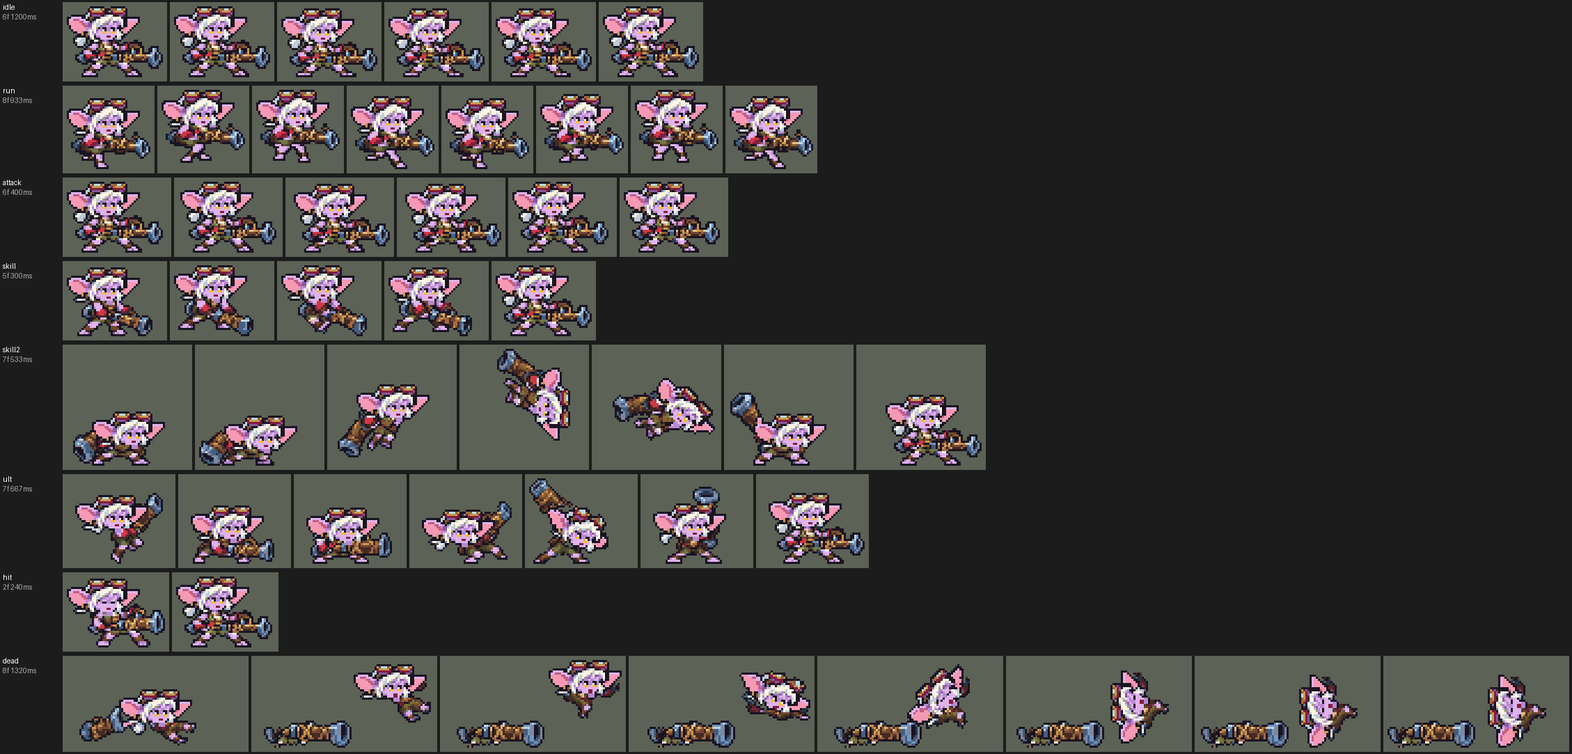
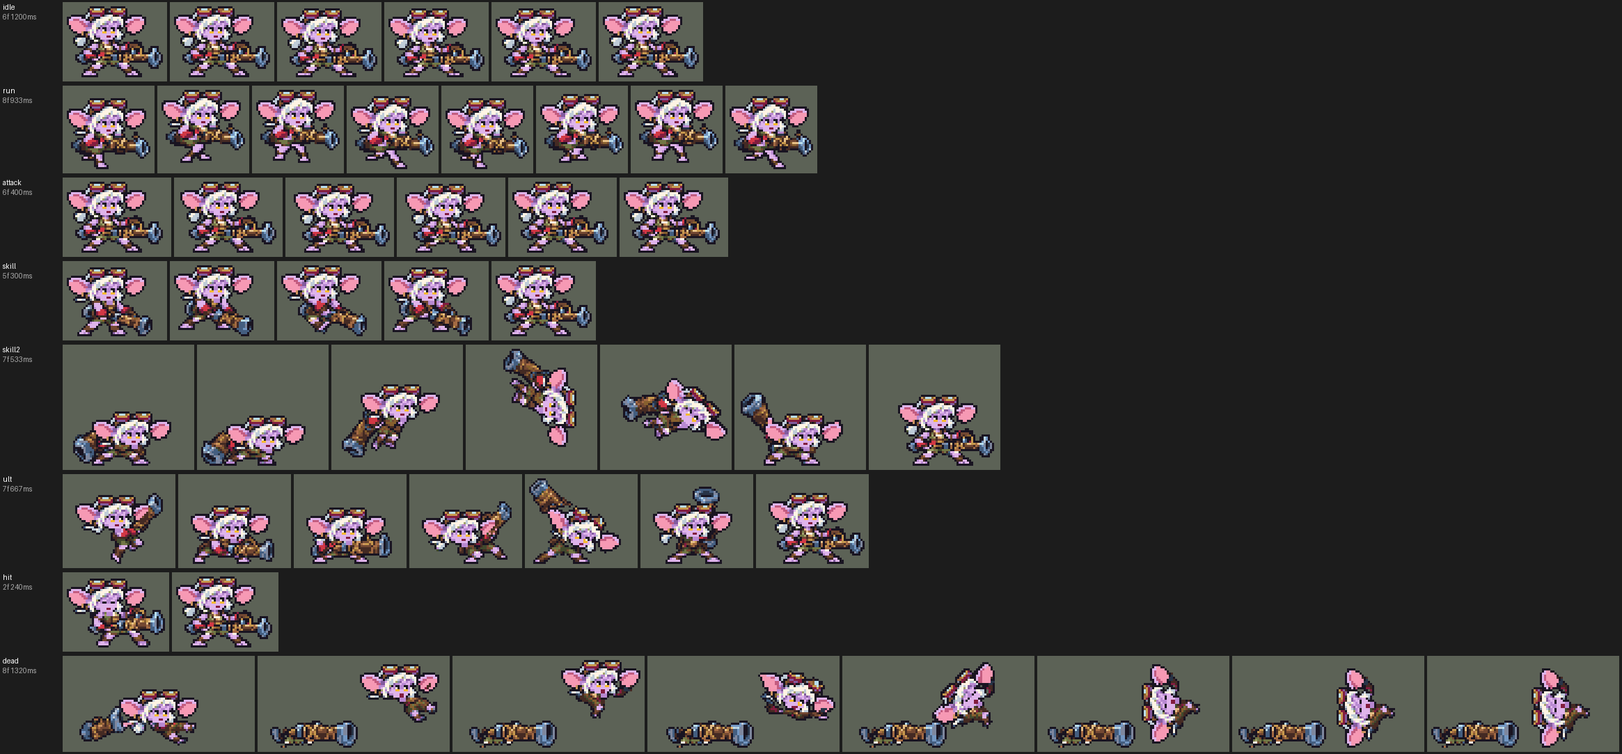
README: LeBlanc (#43) - the hero list, group 9, her showcase and section, her card -8; Tristana's ears
Tristana's previews re-rendered with both ears the left one (the showcase link bumped).

diff --git a/README.md b/README.md
@@ -2,7 +2,7 @@
 
 团战经理2（Teamfight Manager 2）的英雄联盟英雄 Mod，mod_id 是 `league`。纯数据 mod：不改游戏本体，不需要编译。
 
-英雄：盖伦（`league_garen`）、艾希（`league_ashe`）、拉克丝（`league_lux`）、李青（`league_leesin`）、索拉卡（`league_soraka`）、德莱厄斯（`league_darius`）、阿木木（`league_amumu`）、亚索（`league_yasuo`）、金克丝（`league_jinx`）、蕾欧娜（`league_leona`）、提莫（`league_teemo`）、易（`league_masteryi`）、安妮（`league_annie`）、厄运小姐（`league_missfortune`）、迦娜（`league_janna`）、墨菲特（`league_malphite`）、艾克（`league_ekko`）、永恩（`league_yone`）、伊泽瑞尔（`league_ezreal`）、锤石（`league_thresh`）、凯尔（`league_kayle`）、费德提克（`league_fiddlesticks`）、阿狸（`league_ahri`）、卢锡安（`league_lucian`）、莫甘娜（`league_morgana`）、锐雯（`league_riven`）、贝蕾亚（`league_briar`）、阿卡丽（`league_akali`）、薇恩（`league_vayne`）、娜美（`league_nami`）、贾克斯（`league_jax`）、黛安娜（`league_diana`）、维迦（`league_veigar`）、塔里克（`league_taric`）、崔丝塔娜（`league_tristana`）、菲奥娜（`league_fiora`）、菲兹（`league_fizz`）、萨科（`league_shaco`）、凯特琳（`league_caitlyn`）、魔腾（`league_nocturne`）、布里茨（`league_blitzcrank`）。每组上单、打野、中单、ADC、辅助各一：第一组盖伦、李青、拉克丝、艾希、索拉卡，第二组德莱厄斯、阿木木、亚索、金克丝、蕾欧娜，第三组提莫、易（无极剑圣）、安妮、厄运小姐、迦娜，第四组墨菲特、艾克、永恩、伊泽瑞尔、锤石，第五组有上单凯尔、打野费德提克、中单阿狸、ADC 卢锡安、辅助莫甘娜，第六组有上单锐雯、打野贝蕾亚、中单阿卡丽、ADC 薇恩、辅助娜美，第七组有上单贾克斯、中单维迦、ADC 崔丝塔娜、辅助塔里克，第八组有上单菲奥娜（剑姬，排在原定凯南的位置，凯南延后）、中单菲兹、ADC 凯特琳、辅助布里茨。按用户 10 月 2 日排的顺序，打野黛安娜是第七组的，萨科是第八组的，魔腾是第九组的（同组有青钢影、乐芙兰、卡莎、娑娜），魔腾提前做了。
+英雄：盖伦（`league_garen`）、艾希（`league_ashe`）、拉克丝（`league_lux`）、李青（`league_leesin`）、索拉卡（`league_soraka`）、德莱厄斯（`league_darius`）、阿木木（`league_amumu`）、亚索（`league_yasuo`）、金克丝（`league_jinx`）、蕾欧娜（`league_leona`）、提莫（`league_teemo`）、易（`league_masteryi`）、安妮（`league_annie`）、厄运小姐（`league_missfortune`）、迦娜（`league_janna`）、墨菲特（`league_malphite`）、艾克（`league_ekko`）、永恩（`league_yone`）、伊泽瑞尔（`league_ezreal`）、锤石（`league_thresh`）、凯尔（`league_kayle`）、费德提克（`league_fiddlesticks`）、阿狸（`league_ahri`）、卢锡安（`league_lucian`）、莫甘娜（`league_morgana`）、锐雯（`league_riven`）、贝蕾亚（`league_briar`）、阿卡丽（`league_akali`）、薇恩（`league_vayne`）、娜美（`league_nami`）、贾克斯（`league_jax`）、黛安娜（`league_diana`）、维迦（`league_veigar`）、塔里克（`league_taric`）、崔丝塔娜（`league_tristana`）、菲奥娜（`league_fiora`）、菲兹（`league_fizz`）、萨科（`league_shaco`）、凯特琳（`league_caitlyn`）、魔腾（`league_nocturne`）、布里茨（`league_blitzcrank`）、乐芙兰（`league_leblanc`）。每组上单、打野、中单、ADC、辅助各一：第一组盖伦、李青、拉克丝、艾希、索拉卡，第二组德莱厄斯、阿木木、亚索、金克丝、蕾欧娜，第三组提莫、易（无极剑圣）、安妮、厄运小姐、迦娜，第四组墨菲特、艾克、永恩、伊泽瑞尔、锤石，第五组有上单凯尔、打野费德提克、中单阿狸、ADC 卢锡安、辅助莫甘娜，第六组有上单锐雯、打野贝蕾亚、中单阿卡丽、ADC 薇恩、辅助娜美，第七组有上单贾克斯、中单维迦、ADC 崔丝塔娜、辅助塔里克，第八组有上单菲奥娜（剑姬，排在原定凯南的位置，凯南延后）、中单菲兹、ADC 凯特琳、辅助布里茨。按用户 10 月 2 日排的顺序，打野黛安娜是第七组的，萨科是第八组的，魔腾和乐芙兰是第九组的（同组还有青钢影、卡莎、娑娜），这两个先做了。
 
 对敌人放的小技能，施放目标是「敌人（不含防御塔）」，清线、打野时也会放；只有大招、德莱厄斯的 E（拉人）、阿木木的 Q（绷带）、锤石的 Q（钩子）、阿狸的 E（魅惑）、薇恩的 E（恶魔审判）、维迦的 E（扭曲空间）和凯特琳的 W（约德尔诱捕器）只对英雄放（莫甘娜的 Q 对什么都放，但射程内有敌方英雄时朝英雄射；贝蕾亚的 Q 也一样，射程内有敌方英雄时扑英雄；娜美的 W、Q 也是，射程内有敌方英雄时打英雄；黛安娜的 Q 也一样，射程内有敌方英雄时朝英雄射，E 带着月光再冲的第二下也先找英雄；菲奥娜的 Q、W 也一样，射程内有敌方英雄时冲向、刺向英雄；凯特琳的 Q 也一样，射程内有敌方英雄时朝英雄射）；提莫的 W 是给自己加速和伪装，也只在敌方英雄靠近时放。最早几个英雄的小技能只对英雄放，打野时一直平 A 野怪，按玩家反馈改了。
 
@@ -76,7 +76,7 @@
 
 ![塔里克演示：跑进场先砸德莱厄斯一下；Q 星光之触和 W 坚毅壁垒：宝石飞到身后的艾希身上，给她护盾，她脚下亮起灵链印记，塔里克脚下的星光圈给自己回血，灵链让艾希身边也回血；正气凌人的两下强化普攻；盖伦绕到艾希身边；E 炫光：地上的星光蓄力 0.75 秒后在德莱厄斯身上爆开，灵链让艾希身边同一刻爆开、晕住盖伦；再两下强化普攻；两名敌人都在身边时 R 宇宙之辉：塔里克和艾希头顶亮起日冕、金色光柱落下，2.5 秒后两人无敌 2.5 秒](docs/preview/league_taric_showcase.gif?v=1001tc)
 
-![崔丝塔娜演示：跑进场，大炮打出铁炮弹；E 爆炸火花 + Q 急速射击：炮口朝下射出炸弹粘在德莱厄斯身上（还没亮灯），炮管冒起蒸汽；两发快速的炮弹点亮两盏红灯，W 火箭跳跃落到他身边（火环，第三盏灯），第四下立刻满层大爆炸；盖伦走到德莱厄斯身后，R 毁灭射击：炮口爆风、裹着火焰的大炮弹，冲击波把两人击退，落地眩晕；下一发炮弹打死德莱厄斯，他原地爆炸（爆炸火花的被动），W 刷新（头顶的小火箭）；再打盖伦](docs/preview/league_tristana_showcase.gif?v=1001ts34d)
+![崔丝塔娜演示：跑进场，大炮打出铁炮弹；E 爆炸火花 + Q 急速射击：炮口朝下射出炸弹粘在德莱厄斯身上（还没亮灯），炮管冒起蒸汽；两发快速的炮弹点亮两盏红灯，W 火箭跳跃落到他身边（火环，第三盏灯），第四下立刻满层大爆炸；盖伦走到德莱厄斯身后，R 毁灭射击：炮口爆风、裹着火焰的大炮弹，冲击波把两人击退，落地眩晕；下一发炮弹打死德莱厄斯，他原地爆炸（爆炸火花的被动），W 刷新（头顶的小火箭）；再打盖伦](docs/preview/league_tristana_showcase.gif?v=1002ts35e)
 ![菲奥娜演示：跑进场，Q 破空斩冲到德莱厄斯身上（出发点留下尘土和风痕），这一刺在他身上亮出一处破绽（蓝色菱形纹章），顺带发动夺命连刺（她身边的蓝白光线）；第一下普攻减速并刺中破绽（蓝色玫瑰碎裂、她脚下的速度线），第二下暴击（金色 X 形闪光），再普攻一下；W 劳伦特心眼刀：身前的月牙剑光招架 0.75 秒，德莱厄斯砍在上面，随后一道剑气刺穿他，因为挡下过伤害，他眩晕 1 秒（头顶的金星），这一刺也亮出了下一处破绽（离上次刺中已过 3 秒）；R 无双挑战：举剑致意，他身边的金环亮出四处破绽，同时发动夺命连刺，两下快攻刺中两处（金色玫瑰碎裂，下一段少一枚），冷却好了的 Q 冲上去刺中第三处；德莱厄斯后撤，她追着跑、刺得慢了，刺中破绽后冷却减半的 Q 一回来就冲上去刺中第四处，他脚下留下胜利之地（金色光圈，冒着绿色和金色的光点），德莱厄斯倒下](docs/preview/league_fiora_showcase.gif?v=1001fi10)
 ![菲兹连招演示：Q 穿过德莱厄斯后立刻 E 跳起砸下（Q E）；第二段 R 的鱼粘上他后立刻 E 跳上去砸下，随后鲨鱼冲出（R E）](docs/preview/league_fizz_combos.gif)
 
@@ -86,6 +86,8 @@
 
 ![魔腾演示：弓着背、双臂张开滑进场，转身斩砍德莱厄斯（身前的红色刀弧）；Q 梦魇之径：双臂向前下方掷出暗影之刃，穿过德莱厄斯，地上留下黄昏之径，他脚下也拖着一条影径；再砍两刀，第四刀是暗影之刃的横扫，红蓝光环绕身一圈；E 无言恐惧：双臂高举后俯身前抓，灵链抓住德莱厄斯，锁链一节节飞回魔腾，黑暗庇护的护罩升起，挨了一下破盾爆开；2 秒后德莱厄斯被吓跑（头顶的眼睛漩涡），魔腾追上去，德莱厄斯倒下；盖伦走过来，R 鬼影重重：地上炸开黑暗冲击波，魔腾竖起双刃后隐身（半透明），盖伦头上罩着黑雾，魔腾前倾拖着黑影飞扑过去，落地横扫加十字斩](docs/preview/league_nocturne_showcase.gif?v=1002nc)
 ![布里茨演示：走进场，Q 机械飞爪：张开的金色机械爪带着钢链从举起的手臂斜向下飞出，在 59 像素外抓住德莱厄斯，他被眩晕、身上亮起金色电光圈，合拢的爪子抓着他沿原路收回、钢链缩回腕口，爪子装回手臂，他落在布里茨身前；过载运转：两根烟囱冒蒸汽；E 能量铁拳把他打上天 1 秒；普攻在他身上挂上静电，1 秒后一道闪电劈下（静电力场的被动）；盖伦走过来，两个英雄贴身，法力屏障的金色能量罩亮起；R 静电力场：浑身冒电，脚下电场炸开，两人头顶出现紫色沉默环；最后一拳，德莱厄斯倒下](docs/preview/league_blitzcrank_showcase.gif?v=1002bz4)
+
+![乐芙兰演示：跑进场，法杖射出魔法球打中德莱厄斯；Q 恶意魔印：眼形魔印飞出去，打中后亮在他胸口；连招接 W 魔影迷踪：原地开出魔法阵，她拖着残影冲上去，落地炸开、引爆魔印（魔印碎成玻璃碎片）；1.25 秒后落点一道光柱，她在魔法阵上从披风里起身；普攻变成 E 幻影锁链：锁链飞过去，光链环一节节飞回她身边，1.5 秒后锁链从地上缠住他的脚；R 故技重施重放锁链（亮色版）；盖伦走过来，两个英雄贴身，镜花水月：她隐身往后跳开，原地留下分身；法球打倒德莱厄斯](docs/preview/league_leblanc_showcase.gif?v=1002lb1)
 
 ## 英雄：盖伦
 
@@ -1479,6 +1481,7 @@ python tools/art/preview_tristana.py
 - 特效用 Codex 画的 19 张（102 帧），交的是生图原稿（半透明边、颜色没锁色板），多数排成两三行的等宽格子，交付清单写了每帧的区域和挂点：`import_tristana.py --raw` 按清单切帧，每个游戏像素取它覆盖的原图像素的多数色、有三分之一不透明才画，颜色吸到提示词包的 22 色（火焰、烟尘、铁、铜、红灯）。按技能范围和炮口大小定大小（缩到 34 行后炮口钢圈约 11 行，挂在炮上的特效跟着乘 0.8）：炮弹连火尾 12 px（弹 4 px）、炸弹连引信 10 px、大炮弹 16 px；炮口火光 14 / 11 / 24 px；命中 14、加层火花 10、R 命中 24；目标身上的炸弹 13 px（10 px 在 35 px 的身体上看不清）；爆炸 48 px（半径 25000）、满层 58、击杀爆炸 34；W 落地 44 px（半径 22000）、R 冲击波 40（20000）；急速射击的蒸汽 13 px 宽、每秒那一缕 10 px 高；刷新的小火箭 12 px 高、眩晕星 16 px 宽。要固定不动的每帧自己量：三种飞弹量铁球的中心（上下镜像成严格对称，游戏会转到飞行方向），炸弹量弹身，普攻和 R 的炮口火光量左边中点（炮口），E 的量左上角（朝右下喷）；地面的量火环中心。会动的保留原图的动作：命中、火花、小火箭（往上一跳）、眩晕星（绕圈）按交付清单的挂点，蒸汽按第一帧的火星。黑铁炸弹贴在德莱厄斯的黑盔甲上只看得见铜箍，所以加了一圈 1 格的亮边，暗帧橙色、亮帧金色，跟着红灯闪。
 - 出手时刻和动画对齐：普攻、E、R 都在动作第 3 帧出手（第 8、8、9 tick）。炮弹从她的站位点出发、`y_offset` 只抬高画面，所以三种飞弹抬到出手帧炮口附近（`y_offset` 普攻 2000：站位点上 3 px；E 9000：下 4 px；R 6000：下 1 px；缩到 34 行后比炮口中心高 3–4 px，还在钢圈里），画面开头空几 tick（从站位点飞到炮口的时间：5、5、3 tick）。`y_offset` 不只是画面：按 34 行的炮口改成 5000 / 13000 / 9000 后，炮弹多飞 1–2 tick，24 局强度从 +2.06 掉到 +1.33，所以留用测过的值，不会从她肚子里冒出来；炮口火光在同一 tick 放在炮口，跟着她（`is_follow`）：不跟随时火光留在放出的那一边，她转身后就在她身后（用户：「小炮转身了那个火就在小炮的身后」）。急速射击的火星和蒸汽等 E 的动作放完、炮口端平时才从炮口冒出，之后每秒一缕蒸汽（不用 buff 画面：buff 的画面会留在尸体上，也不一定跟着她转向）。
 - 结果：26 色，和右边像素同色的比例 40%（原版英雄 18%–46%）。待机每帧 991 个不透明像素（连炮；41 行时 1251，盖伦 722、提莫 709）。
+- 耳朵（用户：「小炮也有这问题左右耳朵做的不一样」）：定稿的右耳比左耳小、没有里面的深玫红。给用户看了 A（都用左边的大耳朵）、B（都用右边的小耳朵），用户选 A。`tristana_ears.py` 把左耳（粉色、深玫红、淡紫的边和外面一圈描边；耳朵下面那格棕色系带在右边变成描边，把耳垂封口）以头的中线镜像到右边，先擦掉旧的右耳，不盖住头发、脸、手和炮。`shrink_tristana.py` 最后一步对每一帧做（由别的帧转出来的帧身体保持原样：转 90° 的帧转回来换完再转回去，转 45° 的和 Codex 自己转了约 22° 的两帧把待机的新耳朵用 RotSprite 转同样的角度贴上），`fix_tristana_run.py` 对移动做。
 
 **等级探测（「瞄准」的 6、9、12 级）。** 凯尔的做法（给自己一个 3 tick 的护盾，再用 `FixedAttack` 按最大生命的比例打自己，护盾被打破就说明到级了）用在射手身上有三个问题：普攻（`BaseAttack`）里的 `FixedAttack` 会按她的暴击率暴击，暴击时任何等级都能打破护盾（出了暴击装后 4 级就加了 12 级的射程），所以探测只放在 E 和 W 按钮里，普攻只加 3 级那一段；探测那 2 tick 里挨到敌人的攻击也会打破护盾，所以探测期间她受到的伤害减少 99%，打自己的那一下放大 100 倍；塔的攻击不吃这个减伤，所以打架时要连续两次通过（60 秒内）才加射程，复活后的第一个动作（在泉水边、没人打她）一次就够。凯尔防伤害加深的 99 对 100 检查去掉了：打架时敌人的攻击老是打破它，射程要晚好几分钟才加。模拟的四局里没有一段提前加：3 级那段一秒内加上，6 级晚 10–36 秒，9 级晚 18–43 秒，12 级（只有一局打到）晚 18 秒。
 
@@ -1727,6 +1730,45 @@ python tools/art/preview_blitzcrank.py
 
 逐帧预览：[`docs/preview/league_blitzcrank_frames.png`](docs/preview/league_blitzcrank_frames.png)，特效：[`docs/preview/league_blitzcrank_effects.png`](docs/preview/league_blitzcrank_effects.png)。
 
+## 英雄：乐芙兰
+
+| 部分 | 内容 |
+|---|---|
+| 定位 | 中单（远程法师，分类 Magician），第九组的中单（按用户 10 月 2 日排的顺序，同组有魔腾、青钢影、卡莎、娑娜）。打法和英雄联盟一样：Q 标记，W 冲进去打一套再闪回，E 拴住定身，R 重放上一个技能 |
+| 普攻 | 法杖射出的魔法球，100% 攻击力的物理伤害，射程 52500（英雄联盟 525），攻击间隔 90 tick（1.5 秒），第 12 tick 法球离开法杖（动作第 4 帧），每 tick 4.5 px |
+| 被动 | 「镜花水月」（用户选的「被围攻时」）：游戏读不到当前生命，用"危险"代替"生命低于 40%"：每次普攻前数 40000 内的敌方英雄，有两个以上时这一下不打，改成隐身 1 秒、往后跳开 24 px，原地留一个分身（她的待机画面，然后化成光柱），冷却 40 秒 |
+| 技能1 | Q「恶意魔印」：对 70000 内的敌人施放（小兵和野怪也算，清线、打野也用），冷却 5 秒。第 12 tick 掷出眼形魔印（每 tick 3.5 px）：90 + 70% 法术强度的魔法伤害，留下 3.5 秒的印记；她之后任何一个技能打中（W 的爆炸、E 的锁链和定身、R 的各个版本）就引爆印记，再造成 90 + 70% 的魔法伤害。连招（用户：「另外可以加入连招逻辑 像盲僧那样」）：魔印打中英雄 24 tick 后，W 好了就接着冲向他，落地的爆炸正好引爆魔印 |
+| 技能2 | W「魔影迷踪」：对 60000 内的敌方英雄施放，冷却 8 秒。冲向目标（每 tick 4 px），落地在 26000 内爆炸：120 + 100% 法术强度的魔法伤害，引爆魔印。起点留下魔法阵，施放 75 tick（1.25 秒）后闪回起点（用户选的「约 1 秒后回来」）；那一刻被控就不回，死了也不回 |
+| 普攻里的 E | E「幻影锁链」：每 10 秒，80000 内有敌方英雄时，她下一次普攻改成甩锁链（E 的动作）。出手前 8 tick 锁定瞄准（站着会被打中，走开能躲），锁链穿过小兵飞向英雄：80 + 50% 法术强度的魔法伤害，拴住 1.5 秒（光链环一节节飞回她身边）；1.5 秒后她还在 95000 内就定身 1.5 秒，再造成 110 + 100% 的魔法伤害 |
+| 大招 | R「故技重施」：对 70000 内的敌方英雄施放，冷却 45 秒。重放她上一次用的技能（Q、W 或 E；还没用过技能或死后重生时是 Q），伤害约两倍：RQ 160 + 110%（它的印记同样会被引爆），RW 220 + 150%（爆炸半径 30000，同样闪回），RE 130 + 90%、定身时 200 + 150%；特效是对应技能的亮色版 |
+| 数值 | 攻击 80（+6）、法术强度 40（+20）、生命 880（+95）、护甲 20（+7）、魔抗 20（+3）、移速 920（+10）。数值是自己设计的，用 SDK 对战模拟调：中单位，对 5 个原版法师（火、冰、雷、风、白），三套队友阵容、两边各 8 局，一批 240 局。第一版伤害（Q 55 + 45% 等）−3.16：她死得不比阿狸多，但打出的伤害只有 8000（阿狸 12600）；W 回得更快、W 也打小兵、去掉连招都不行（−2.5 到 −3.1，连招约值 0.6 分）；伤害 ×1.4 −0.42，×1.6 +1.33，最后两批 +1.50 / +0.77 |
+| 亚索联动 | E 的定身是亚索大招要的控制，但锁链要拴满 1.5 秒才定：乐芙兰打中单、亚索打上路同队时，亚索每局 R 到被控英雄 0.58 次（同一批原版火法师 0.65、雷法师 3.19），亚索不用调 |
+| 精灵图 | 9 个动作 56 帧：待机、移动、普攻、Q、W 冲刺、W 闪回、E 甩锁链、受击、死亡（R 用 Q 的帧）。造型按用户在 Codex 里选的原画（A：待机站姿），由 Codex 按游戏尺寸画，用户选版本 B：靛蓝头发、金色头冠和尖角、琥珀色的眼睛、金领甲、午夜蓝和深红的长裙、身后的披风、金杆红水晶加两只蝙蝠翼的法杖。头冠尖到脚底 43 px，32 px 宽，18 色 |
+| 特效 | 普攻的法球（19 px）、法杖上的闪光和命中，Q 的眼形魔印（飞行、成形、命中、目标胸口的印记、碎成玻璃的引爆），E 的锁链（链头、一节节飞回的光链环、甩出的弧光、命中、从地上缠住脚的锁链 30 × 31 px），W 的魔法阵（28 px）、冲刺残影（47 × 23 px）、落地爆炸（58 px，半径 26000）、命中、闪出和闪回的光柱（22 × 54 px）；大招的亮色版，被动的分身 |
+| 图标 | 官方技能图标（Q / W / R），64×64 |
+| 音频 | 从本地客户端提取的 13 条技能音效和 7 条中文语音（Q、W、E、被动和 R 的三个版本），合成 15 个游戏音效。不提交到仓库，按下面的命令在本地生成 |
+
+```bash
+python tools/lol/extract_leblanc.py --lol "D:\WeGameApps\lol" --vgmstream "<vgmstream-cli.exe 路径>"
+python tools/lol/native_pose.py assets/source/leblanc/poses.json --out <渲染文件夹>   # 动作参考帧
+python tools/art/design_leblanc.py         # 造型：Codex 的 B 版按整行整列删到 43 行，脸和法杖保住，两只耳饰一样
+python tools/art/fix_leblanc_strips.py     # 动作：清理 Codex 的动作条；移动用重画的那版，8 帧共用一个上半身
+python tools/art/import_native.py --hero leblanc
+python tools/art/import_leblanc.py         # 特效：按整数比例缩放、挂点；大招亮色版和被动分身
+python tools/art/preview_leblanc.py
+```
+
+美术（原画的提示词见 [`assets/source/leblanc/`](assets/source/leblanc/) 里的原画包，动作的见 [`MODEL_STRIPS.md`](assets/source/leblanc/MODEL_STRIPS.md)、移动重画的见 [`RUN_REDO.md`](assets/source/leblanc/RUN_REDO.md)，特效的见 [`PROMPTS_FX.md`](assets/source/leblanc/PROMPTS_FX.md)；Codex 的交接说明在 [`codex_model/`](assets/source/leblanc/codex_model/)、[`codex_strips/`](assets/source/leblanc/codex_strips/)、[`codex_run_redo/`](assets/source/leblanc/codex_run_redo/)、[`codex_fx/`](assets/source/leblanc/codex_fx/)）：
+- 分工：模型和特效都由 Codex 画，Claude 写提示词包、整理和导入，按"原画 → 造型 → 动作 → 特效"分四步。
+- 原画和造型：先写原画提示词包，Codex 画了 A、B 两张，用户选 A（待机站姿）。造型第一轮 Codex 画得太大（86 行），第二轮按游戏尺寸画了 A、B 两版，用户：「这两版我挺喜欢的……脸部 法杖做好点」，选 B 并定 43 行。`design_leblanc.py` 只删整行整列（脸、眼睛、法杖的杆不删），再按用户逐处指出的修：法杖拉直、补回右边的蝙蝠翼和水晶描边，披风上的洞补上，清掉零散的黑格（「清理黑边保持干净」「法杖旁边多了一块黑色素」），耳饰下移 3 行到眼睛高度，再把远侧的耳饰镜像到近侧（「最好左右耳朵做成一样的」）；近侧眼的两格瞳孔换成只有眼睛用的暗红（导入时按它定头的位置）。
+- 动作参考（`poses.json`）：镜头 yaw 45、pitch 20，不镜像；头 2.3 倍、腿 0.8 倍、法杖 0.75 倍；高度 38，96 × 80 的格子。英雄联盟的披风是特效材质，渲染不出来，参考图里藏掉了，提示词要 Codex 照造型画披风。待机 6 帧 × 180 ms，移动 `run1` 8 帧 × 142 ms（动画图里播放一圈 1.133 秒），普攻 6 帧，Q 5 帧，W 冲刺 `spell2` 5 帧 × 60 ms，W 闪回 `spell2_recast` 5 帧 × 80 ms，E `spell3` 6 帧，受击 2 帧，死亡 8 帧。
+- 动作：Codex 画了 8 条，每帧贴定稿的头。`fix_leblanc_strips.py` 清理（用户：「有奇怪的地方你再调一下吧 codex太笨了」）：头旁边残留的 Codex 自己的头的描边和耳饰、普攻第 4–5 帧格子顶上的一抹，用造型的规则清掉不描边任何东西的黑格（披风边上的第二圈黑边、黑尾巴）；普攻第 3 帧举过头的法杖接成一条直线从头后面穿过，第 4–5 帧悬在脸旁的一根两格细黑棍（往后甩的手臂）去掉。移动第一版 8 帧一直是左腿在后、右腿在前（「走路没有交叉步 平行走路？」），前 4 帧脚离地 1–3 格，耳边一闪一闪（「走路的时候左右耳会冒出来什么东西？」）；Claude 自己按关节重画的腿用户说「做的不行 让codex帮忙重做吧」，于是写了移动重画包，Codex 重画了交叉步（第 3、7 帧两腿交叉经过，鞋距 10 格内，每帧踩地）。它每帧都重画了贴好的头下面的身体，领甲每帧离下巴偏 1–3 格，用户：「移动时候头和身体不协调 像脱节了一样」——现在 8 帧共用第 3 帧的上半身（头、领甲、躯干、披风、法杖一整块），整块随步子起伏（第 1、5 帧低 1 行），每帧只换裙摆下面自己的腿。
+- 导入：待机 6 帧都用定稿，第 3–5 帧从裙摆（脚底上方 2 行）往上下沉一格呼吸（`BOB`；长裙的斜纹每行都不一样，选在高跟鞋上面）；按近侧眼的暗红定头的位置（`EYES`）；描边补齐（`COMPLETE`）。头像截取点 (4, −38)（`tfm2_ase.py face`），选人卡 −8（见下）。
+- 特效用 Codex 画的 19 张（99 帧），交的是 1 倍的成品，但比提示词写的大 2–3 倍；它自己缩到游戏尺寸的预览条丢了魔印的眼睛、魔法阵的圈和法球的尾巴，没用。用户：「有问题的地方你帮忙善后一下吧」——`import_leblanc.py` 按整数比例缩放（缩一半、缩三分之一时每块取最亮的像素，白色的芯和一像素的光丝都留得住），W 的落地爆炸放大 2 倍对上 26000 的范围，魔法阵和魔印的引爆用原尺寸。挂点：出手的闪光在当帧法杖水晶的位置（普攻第 4 帧 (37, −13)、Q 出手 (21, −25)、E 出手 (32, −17)；挂在她身上的画面会跟着她转身镜像），命中、印记和引爆在上半身 (0, −8)，定身、魔法阵、爆炸和光柱落在脚底，冲刺残影在她身后。大招的画面是基础特效每种颜色往白色靠三分之一；被动的分身是她的待机 6 帧，然后沉进闪出的光柱。
+- 出手时刻和动画对齐：普攻第 4 帧（第 12 tick），Q 第 3–4 帧（第 12 tick），E 第 4 帧，W 冲刺 18 tick、闪回 24 tick 和动作条一样长；印记每 12 tick 重播一次（4 帧 × 50 ms），定身 12 帧共 1.5 秒，魔法阵 10 帧撑到 1.25 秒后闪回。
+
+逐帧预览：[`docs/preview/league_leblanc_frames.png`](docs/preview/league_leblanc_frames.png)，特效：[`docs/preview/league_leblanc_effects.png`](docs/preview/league_leblanc_effects.png)。
+
 ## 选人卡片位置（`banpick_center`）
 
 用户在禁用界面看到娜美、凯尔被卡片切头、冒出卡片。从截图量了 36 张卡片（把每位英雄的待机帧放大后逐张对上截图；按量出的规则画的模拟卡片和截图一致）：
@@ -1736,7 +1778,7 @@ python tools/art/preview_blitzcrank.py
 - 画布只装得下约 40 px 高。原版给高个英雄设的值正好是 −39 − 待机最高点（食人魔 −7、死灵法师 −9、处刑人和骑兵 −10）：头顶离画布上沿 1 px，脚藏到名字栏后面。
 - 收藏界面不读这个值，所有英雄的脚放在同一条线上（处刑人的 −10 在那里也不起作用）。
 
-按这条规则，待机最高点高过 −28 的英雄都设上了（用户：「按同样的规则一起调」，模型不变）：易 −4（按头盔算，见下）、凯尔 0（翅膀）、娜美 −1（金冠）、迦娜 −2、费德提克和墨菲特 −4、贝蕾亚和卢锡安 −5、莫甘娜 −6、德莱厄斯和永恩 −9、蕾欧娜、索拉卡、锤石和李青 −10（李青腿缩短 3 行之前是 −7）。锐雯、薇恩（−28）和其余英雄装得下，不设。之后的黛安娜照这条规则设 −8（举着的月刃最高，到 −31），萨科设 −8（43 行，帽尖到 −31），布里茨设 −7（44 行，烟囱顶到 −32）。贾克斯缩到 36 行后最高处 −24，去掉了原来的 −10。凯特琳的礼帽顶在 −29，设 −10。魔腾的头冠在 −28，装得下，不设。第一次给娜美、凯尔设的 −8、−9 是按"居中"算的，把金冠和翅膀尖切掉了。
+按这条规则，待机最高点高过 −28 的英雄都设上了（用户：「按同样的规则一起调」，模型不变）：易 −4（按头盔算，见下）、凯尔 0（翅膀）、娜美 −1（金冠）、迦娜 −2、费德提克和墨菲特 −4、贝蕾亚和卢锡安 −5、莫甘娜 −6、德莱厄斯和永恩 −9、蕾欧娜、索拉卡、锤石和李青 −10（李青腿缩短 3 行之前是 −7）。锐雯、薇恩（−28）和其余英雄装得下，不设。之后的黛安娜照这条规则设 −8（举着的月刃最高，到 −31），萨科设 −8（43 行，帽尖到 −31），布里茨设 −7（44 行，烟囱顶到 −32），乐芙兰设 −8（43 行，头冠的尖到 −31）。贾克斯缩到 36 行后最高处 −24，去掉了原来的 −10。凯特琳的礼帽顶在 −29，设 −10。魔腾的头冠在 −28，装得下，不设。第一次给娜美、凯尔设的 −8、−9 是按"居中"算的，把金冠和翅膀尖切掉了。
 
 易原来按剑尖（待机最高点 −44）算成 +5，是全包唯一的正数（原版英雄都在 −7 到 −12）。游戏里他的卡片没有按 2.2 倍画，而是退回 1 倍、脚踩画布底边的默认位置，整个人缩在卡片里（用户：「剑圣的BP格怎么出现问题了 变这么小」）。改成按头盔算的 −4：剑尖在画布上方被裁掉，头盔和身体在卡片里，和别的英雄一样大。他的待机帧也是全包最高的（剑举得高，89 像素，别人最高 79），如果改了还小，原因就是帧太高，要把待机里的剑放低到 −39 以内。
 
